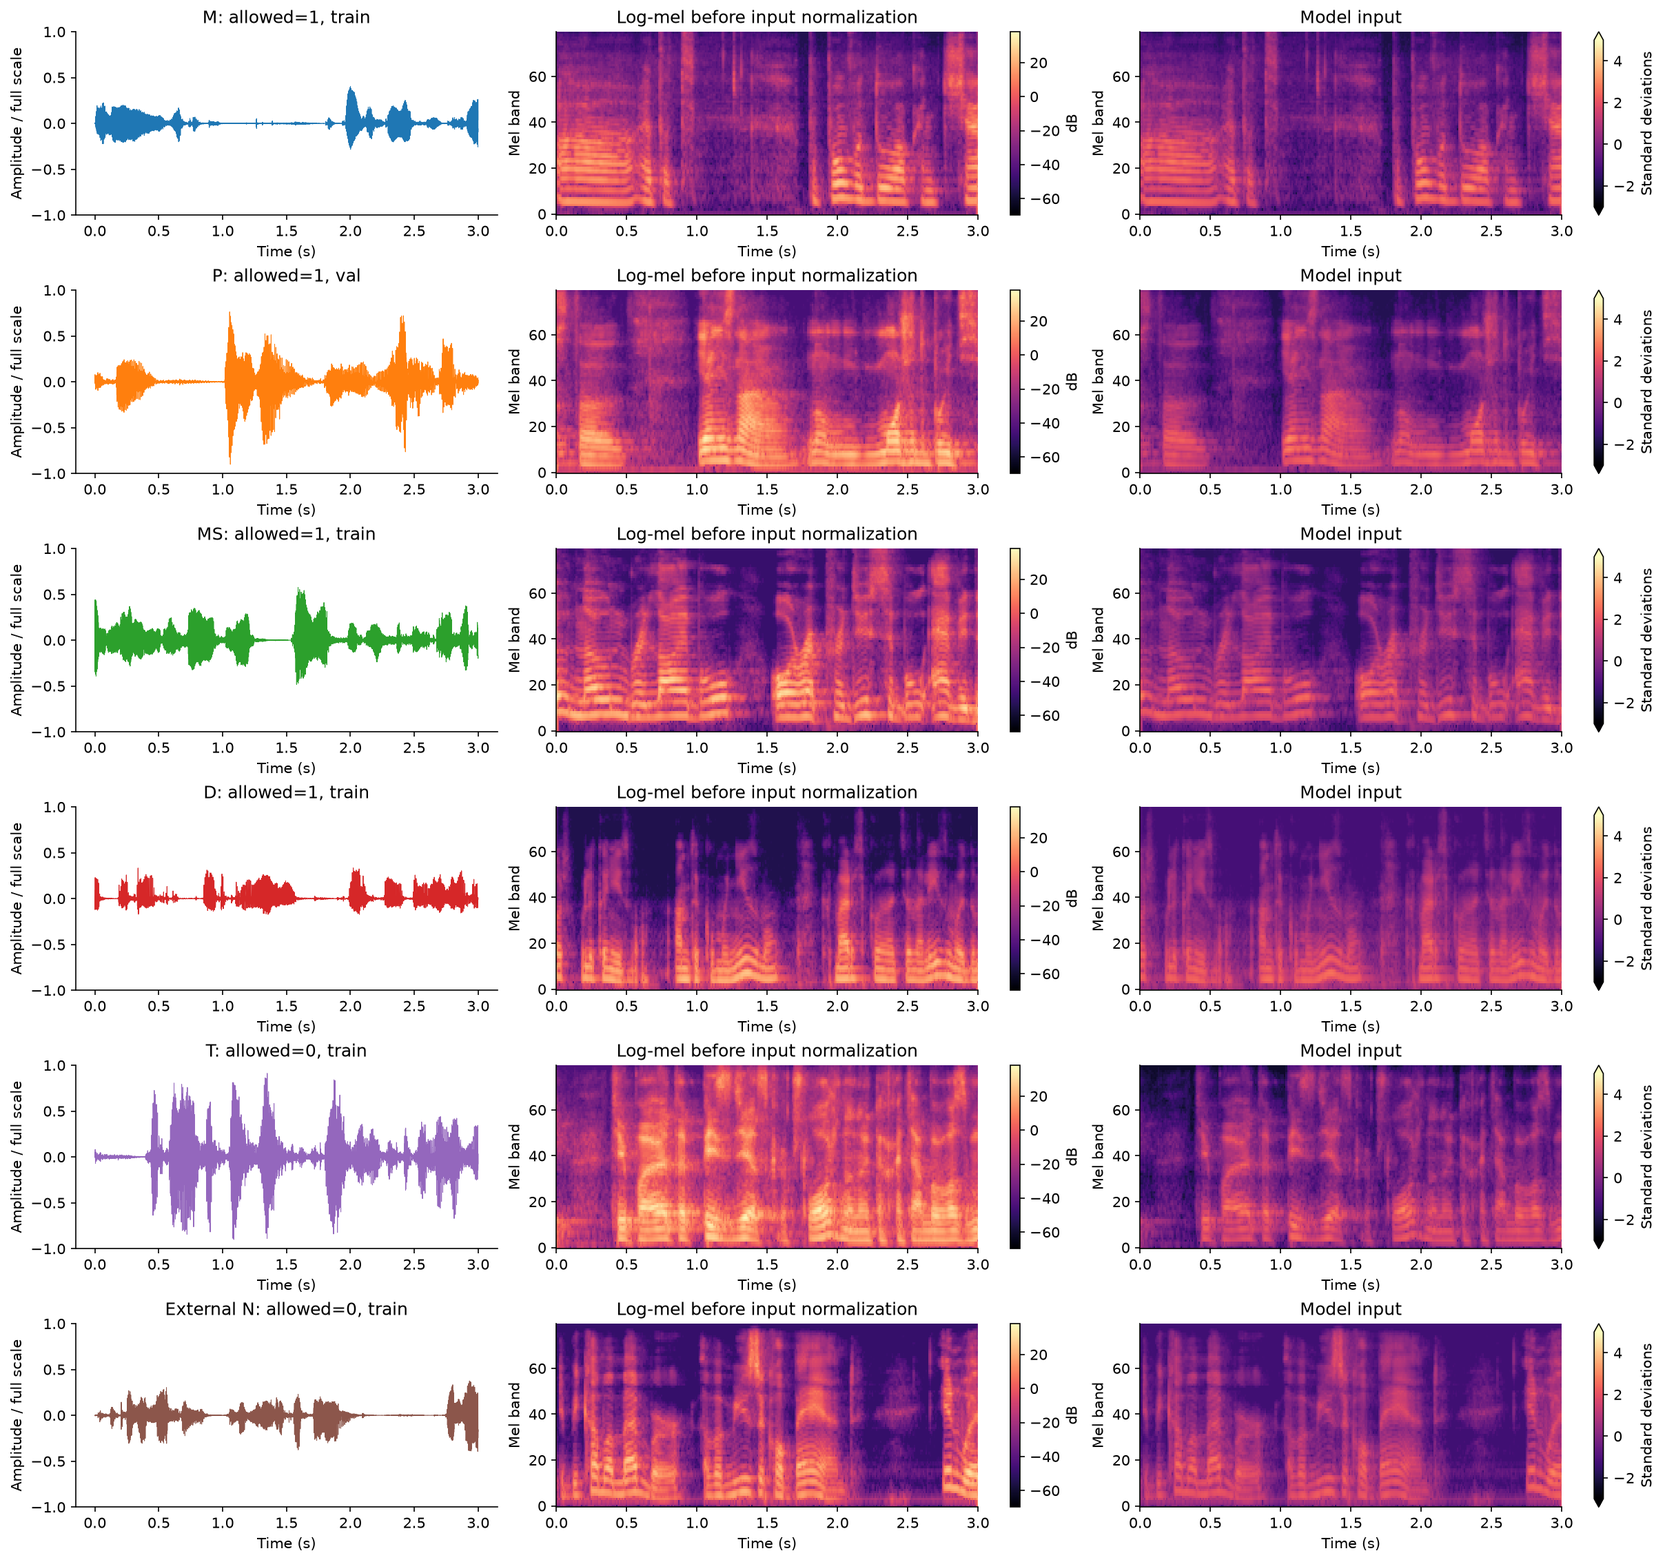
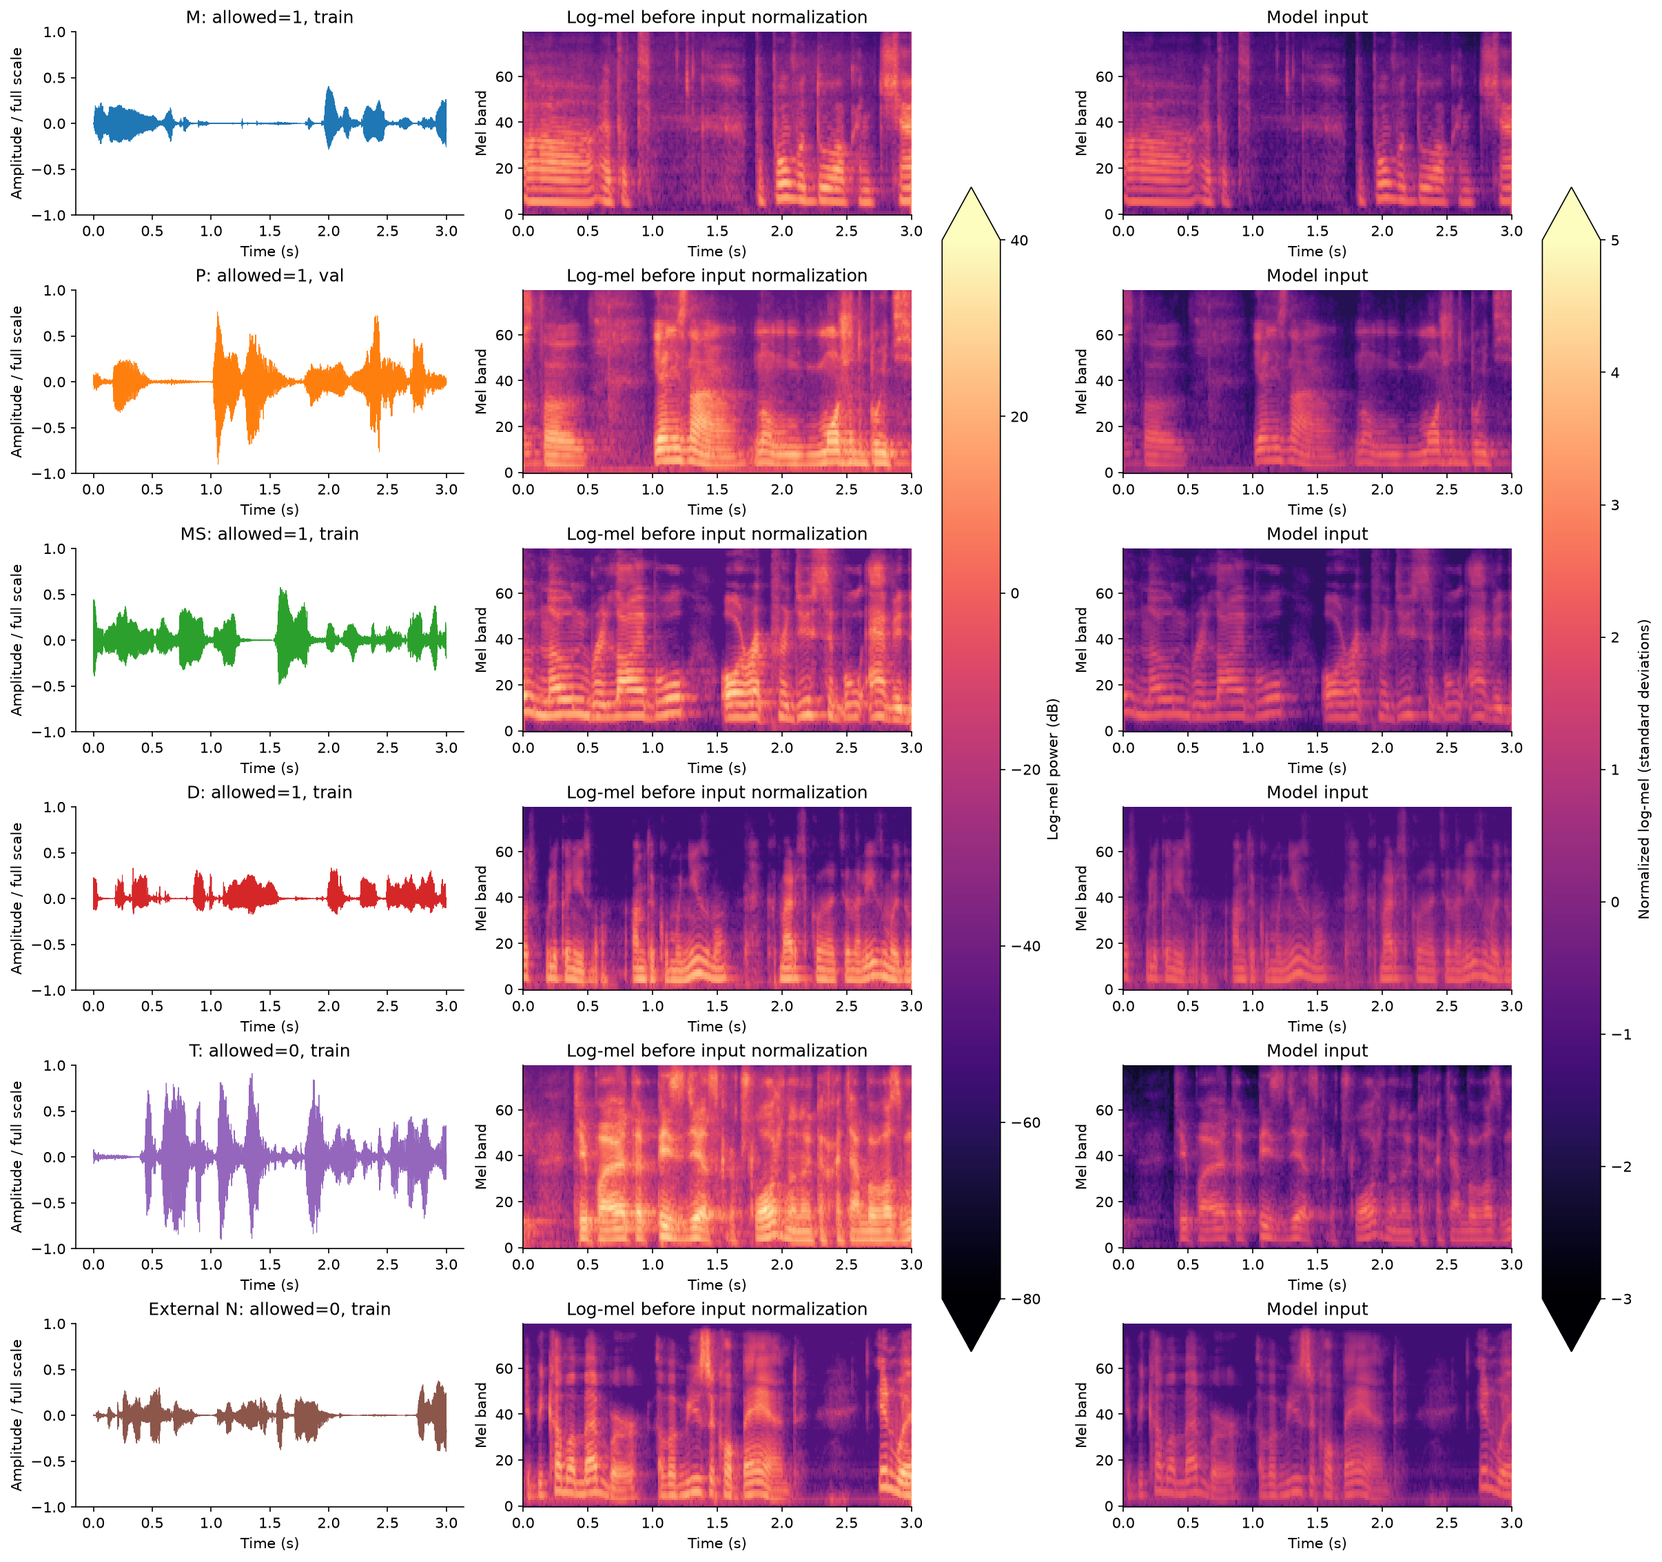
Simplify spectrogram export and fix EDA report consistency

diff --git a/src/iml/export_spectrograms.py b/src/iml/export_spectrograms.py
@@ -1,32 +1,25 @@
-"""Export pictures of the same log-mel tensors used by the training loader.
+"""Draw model-input spectrograms and save them as PNG pictures.
 
-Run from the repository root, using the project environment::
+Run from the repository root in the project environment::
 
     python -m iml.export_spectrograms --data data/training_dataset_v2
-    python -m iml.export_spectrograms --data data/training_dataset_v2 --out /tmp/v2-pictures
-    python -m iml.export_spectrograms --data data/training_dataset_v2 --config runs/.../config.json
+    python -m iml.export_spectrograms --data data/training_dataset_v3 --out /tmp/v3-pictures
+    python -m iml.export_spectrograms --data data/training_dataset_v2 --config path/to/config.json
 
-``--out`` defaults to ``<dataset>/spectrograms``. The input must satisfy
-DATA_CONTRACT.md: train/val/test CSVs and 16 kHz, three-second int16 NPY clips.
-No model, training, download, or waveform modification is involved.
+The default output is DATA/spectrograms. Each PNG is grouped by split/class and
+preserves the input clip's relative path. spectrogram_index.csv maps images to
+clips; export_metadata.json records the frontend settings. Each run redraws the
+selected images, including existing ones, so changed inputs/settings take effect.
 
-Defaults match the training frontend: 80 mel bands, FFT 512, hop 160, power=2,
-AmplitudeToDB(top_db=80), followed by per-sample normalization. An experiment
-``--config`` can supply different frontend settings. The exporter calls
-SpectrogramDataset directly, using deterministic evaluation cropping; with the
-default three-second clips, training and evaluation crops are identical.
+Manifest parsing and validation come from iml.contract. SpectrogramDataset computes
+exactly the evaluation input tensor: log-mel power, dB conversion, then configured
+normalization. Native three-second clips need no cropping. Only the rendered PNG
+uses a colormap; the model receives the numerical tensor, not this image.
+Pictures share fixed color limits within each normalization mode, including
+across datasets. Values outside the display range saturate without changing
+the tensor. Raw dB, scaled dB, and per-sample units remain different quantities.
 
-PNG files are placed in ``<out>/<split>/<allowed|invalid>/<original path>.png``.
-``spectrogram_index.csv`` maps each picture to its clip and label;
-``export_metadata.json`` records frontend settings and the dataset fingerprint.
-PNG colors are a visualization of the tensor, not a replacement training input.
-Per-sample-normalized pictures share a fixed color range; out-of-range colors
-are saturated, and the underlying tensor is unchanged.
-
-An unchanged export can resume by skipping existing PNGs. Different input data,
-frontend settings, or DPI require ``--overwrite``. That flag recreates expected
-images but never deletes unrelated files. The input fingerprint is checked again
-after export. Other datasets are processed only when selected explicitly.
+The Python API returns the clip-to-image index as a DataFrame.
 """
 
 from __future__ import annotations
@@ -41,10 +34,13 @@ import torch
 from tqdm.auto import tqdm
 
 from iml.config import ExperimentConfig
-from iml.contract import SPLITS, fingerprint, validate_dataset
+from iml.contract import SPLITS, read_split, validate_dataset
 from iml.data import SpectrogramDataset
 
 FRONTEND_FIELDS = ("sample_rate", "excerpt_sec", "n_fft", "hop_length", "n_mels", "normalize_input")
+
+# Display ranges only. "global" applies (dB + 40) / 40 to the raw dB limits.
+COLOR_LIMITS = {"none": (-80.0, 40.0), "global": (-1.0, 2.0), "per_sample": (-3.0, 5.0)}
 
 
 def draw_spectrogram(ax, spectrogram, cfg: ExperimentConfig, *, title: str = ""):
@@ -57,7 +53,7 @@ def draw_spectrogram(ax, spectrogram, cfg: ExperimentConfig, *, title: str = "")
     if values.ndim != 2 or values.shape[0] != cfg.n_mels:
         raise ValueError("Expected a two-dimensional (mel bands, frames) spectrogram")
     hop_seconds = cfg.hop_length / cfg.sample_rate
-    limits = {"vmin": -3.0, "vmax": 5.0} if cfg.normalize_input == "per_sample" else {}
+    low, high = COLOR_LIMITS[cfg.normalize_input]
     image = ax.imshow(
         values,
         origin="lower",
@@ -70,7 +66,8 @@ def draw_spectrogram(ax, spectrogram, cfg: ExperimentConfig, *, title: str = "")
             -0.5,
             cfg.n_mels - 0.5,
         ),
-        **limits,
+        vmin=low,
+        vmax=high,
     )
     ax.set(xlabel="Time (s)", ylabel="Mel band", title=title, xlim=(0, cfg.excerpt_sec))
     return image
@@ -90,13 +87,12 @@ def export_spectrograms(
     cfg: ExperimentConfig | None = None,
     *,
     dpi: int = 120,
-    overwrite: bool = False,
     verbose: bool = True,
 ) -> pd.DataFrame:
-    """Write one PNG per manifest row and return the clip-to-image index.
+    """Draw and save one PNG per clip, replacing existing images at the same paths.
 
-    Reuses SpectrogramDataset without changing labels, splits, or input audio.
-    ``cfg`` affects only the frontend, not model construction or training.
+    Input waveforms, labels, and split manifests are never written. Validation
+    checks file headers once; each waveform is then loaded by SpectrogramDataset.
     """
     import matplotlib.pyplot as plt
 
@@ -105,70 +101,27 @@ def export_spectrograms(
     cfg = cfg or ExperimentConfig()
     if dpi < 1:
         raise ValueError("DPI must be positive")
-    if output_dir == data_dir or output_dir == data_dir / "audio":
+    if output_dir in (data_dir, data_dir / "audio"):
         raise ValueError("Choose a dedicated output folder, not the dataset root or audio folder")
     errors = validate_dataset(data_dir)
     if errors:
         raise ValueError(errors)
-    original = fingerprint(data_dir)
-    frontend = {field: getattr(cfg, field) for field in FRONTEND_FIELDS}
-    signature = {"dataset_sha1": original["sha1"], "frontend": frontend, "dpi": dpi}
-    metadata_path = output_dir / "export_metadata.json"
-    if metadata_path.exists():
-        previous = json.loads(metadata_path.read_text())
-        if previous.get("signature") != signature and not overwrite:
-            raise ValueError(
-                "Export settings or dataset changed; choose another folder or --overwrite"
-            )
-    elif output_dir.exists() and any(output_dir.rglob("*.png")) and not overwrite:
-        raise ValueError("Unidentified existing PNGs; choose another folder or --overwrite")
 
-    # Preserve the original path to avoid collisions between identically named clips.
     rows = []
-    for split in SPLITS:
-        manifest = pd.read_csv(data_dir / f"{split}.csv")
-        for row in manifest.itertuples(index=False):
-            label_name = "allowed" if int(row.allowed) == 1 else "invalid"
-            image = Path(split) / label_name / Path(row.path).with_suffix(".png")
-            rows.append(
-                {
-                    "path": row.path,
-                    "allowed": int(row.allowed),
-                    "split": split,
-                    "image": image.as_posix(),
-                }
-            )
-    index = pd.DataFrame(rows, columns=["path", "allowed", "split", "image"])
-    if index.image.duplicated().any():
-        raise ValueError("Image paths are not unique")
-    output_dir.mkdir(parents=True, exist_ok=True)
-    metadata = {
-        "signature": signature,
-        "dataset": original,
-        "complete": False,
-        "normalization_color_limits": [-3, 5] if cfg.normalize_input == "per_sample" else None,
-        "crop": "evaluation (center); native three-second clips need no cropping",
-        "tensor_source": "iml.data.SpectrogramDataset",
-        "torch_version": str(torch.__version__),
-    }
-    metadata_path.write_text(json.dumps(metadata, indent=2) + "\n")
-    written = skipped = 0
     with torch.inference_mode():
         for split in SPLITS:
-            part = index[index.split.eq(split)]
-            dataset = SpectrogramDataset(
-                [(data_dir / row.path, row.allowed) for row in part.itertuples()], cfg, train=False
-            )
-            for i, row in enumerate(
-                tqdm(part.itertuples(), total=len(part), desc=f"PNG {split}", disable=not verbose)
+            items = read_split(data_dir, split)
+            dataset = SpectrogramDataset(items, cfg, train=False)
+            for i, (path, label) in enumerate(
+                tqdm(items, desc=f"PNG {split}", disable=not verbose)
             ):
-                target = output_dir / row.image
-                if target.exists() and not overwrite:
-                    skipped += 1
-                    continue
-                tensor, label = dataset[i]
-                if label != row.allowed or not torch.isfinite(tensor).all():
-                    raise ValueError(f"Invalid frontend output for {row.path}")
+                relative = path.relative_to(data_dir)
+                label_name = "allowed" if label == 1 else "invalid"
+                image_path = Path(split) / label_name / relative.with_suffix(".png")
+                target = output_dir / image_path
+                tensor, _ = dataset[i]
+                if not torch.isfinite(tensor).all():
+                    raise ValueError(f"Invalid frontend output for {relative}")
                 target.parent.mkdir(parents=True, exist_ok=True)
                 fig, ax = plt.subplots(figsize=(8, 3.2), layout="constrained")
                 try:
@@ -176,23 +129,33 @@ def export_spectrograms(
                         ax,
                         tensor.squeeze(0).cpu().numpy(),
                         cfg,
-                        title=f"{Path(row.path).stem}\n{split} · allowed={label}",
+                        title=f"{path.stem}\n{split} · allowed={label}",
                     )
                     fig.colorbar(image, ax=ax, label=colorbar_label(cfg), extend="both")
-                    temporary = target.with_suffix(".png.tmp")
-                    fig.savefig(temporary, format="png", dpi=dpi)
-                    temporary.replace(target)
-                    written += 1
+                    fig.savefig(target, dpi=dpi)
                 finally:
                     plt.close(fig)
-    if fingerprint(data_dir) != original:
-        raise RuntimeError("Input data changed during export; the export is marked incomplete")
+                rows.append(
+                    {
+                        "path": relative.as_posix(),
+                        "allowed": label,
+                        "split": split,
+                        "image": image_path.as_posix(),
+                    }
+                )
+    output_dir.mkdir(parents=True, exist_ok=True)
+    index = pd.DataFrame(rows, columns=["path", "allowed", "split", "image"])
     index.to_csv(output_dir / "spectrogram_index.csv", index=False)
-    metadata.update(complete=True, image_count=len(index), written=written, skipped=skipped)
-    metadata_path.write_text(json.dumps(metadata, indent=2) + "\n")
+    metadata = {
+        "data_dir": str(data_dir),
+        "frontend": {k: getattr(cfg, k) for k in FRONTEND_FIELDS},
+        "color_limits": COLOR_LIMITS[cfg.normalize_input],
+        "dpi": dpi,
+        "image_count": len(index),
+    }
+    (output_dir / "export_metadata.json").write_text(json.dumps(metadata, indent=2) + "\n")
     if verbose:
-        print(f"{written} written, {skipped} reused: {output_dir}")
-        print("Input manifests and waveform fingerprint unchanged:", original["sha1"])
+        print(f"Saved {len(index)} spectrogram pictures: {output_dir}")
     return index
 
 
@@ -200,18 +163,17 @@ def main() -> None:
     parser = argparse.ArgumentParser(
         description=__doc__, formatter_class=argparse.RawDescriptionHelpFormatter
     )
-    parser.add_argument("--data", type=Path, required=True, help="Dataset with train/val/test CSVs")
-    parser.add_argument("--out", type=Path, help="Output folder (default: DATA/spectrograms)")
-    parser.add_argument("--config", type=Path, help="Experiment JSON containing frontend settings")
+    parser.add_argument("--data", type=Path, required=True, help="dataset with train/val/test CSVs")
+    parser.add_argument("--out", type=Path, help="picture folder (default: DATA/spectrograms)")
+    parser.add_argument("--config", type=Path, help="experiment config with frontend settings")
     parser.add_argument("--dpi", type=int, default=120, help="PNG resolution (default: 120)")
-    parser.add_argument("--overwrite", action="store_true", help="Recreate expected images")
     parser.add_argument("--threads", type=int, default=4, help="CPU threads (default: 4)")
     args = parser.parse_args()
     if args.threads < 1:
         parser.error("--threads must be positive")
     torch.set_num_threads(args.threads)
     cfg = ExperimentConfig.from_json(args.config) if args.config else ExperimentConfig()
-    export_spectrograms(args.data, args.out, cfg, dpi=args.dpi, overwrite=args.overwrite)
+    export_spectrograms(args.data, args.out, cfg, dpi=args.dpi)
 
 
 if __name__ == "__main__":

diff --git a/notebooks/spdsslg/eda/DATA_ANALYSIS.md b/notebooks/spdsslg/eda/DATA_ANALYSIS.md
@@ -40,8 +40,8 @@ matching provenance files or documented filename conventions supply recording/sp
 Results are kept separately for each dataset:
 
 ```text
-notebooks/eda/
-  README.md
+notebooks/spdsslg/eda/
+  DATA_ANALYSIS.md
   recordings.ipynb
   reports/
     training_dataset_v2/
@@ -51,28 +51,10 @@ notebooks/eda/
 
 Each report folder contains five figures, summary tables, per-clip measurements,
 `observations.md`, and metadata recording the settings, software versions, seed, and input
-checksum. The checksum confirms that input data stayed unchanged. Reports are gitignored;
-the figure links below work locally after running the notebook.
-
-### Optional spectrogram export
-
-`EXPORT_ALL_SPECTROGRAMS = False` still produces all analysis plots and representative
-spectrograms. Set it to `True` to additionally save **one PNG per clip** under
-`<dataset>/spectrograms/`, grouped by split and allowed/invalid class.
-
-The exporter calls the training loader's own spectrogram code. PNGs visualize the model's
-inputs; they do not replace the audio arrays used for training. An index links each image
-to its clip, and metadata records the settings. Unchanged exports can resume.
-
-To export independently to a chosen folder:
-
-```bash
-/opt/venv/bin/python -m iml.export_spectrograms \
-  --data data/training_dataset_v2 \
-  --out data/training_dataset_v2/spectrograms
-```
-
-Use `--config` for an experiment's frontend settings; see `--help` for other options.
+checksum. The checksum confirms that input data stayed unchanged. The v2 PNG figures and
+`observations.md` are included as the example report. Reports for v3/v4 are local and
+gitignored; JSON metadata and CSV files are also ignored. Tables and per-clip measurements
+are displayed in the notebook. The figure links below point to the v2 example report.
 
 ## v2 at a glance
 
@@ -186,6 +168,12 @@ bands run bottom to top. Lighter areas indicate stronger values within that pane
 all-clip statistics. Both spectrogram columns retain gaps and frequency patterns: normalization
 rescales features rather than cleaning audio. Their units differ, so brightness cannot measure
 a loudness change. These are representative examples, not every clip in each group.
+
+Pictures share fixed color limits within each mode: raw log-mel uses −80 to 40 dB,
+`global` uses −1 to 2 (the same dB range after its scaling), and `per_sample` uses −3 to 5.
+This makes colors comparable across images and datasets using the same mode. Values outside
+these ranges use the endpoint colors; the underlying tensors are unchanged. Different modes
+still use different units, so colors are not directly comparable between modes.
 
 ## General observations from v2
 

diff --git a/README.md b/README.md
@@ -147,17 +147,19 @@ uv run python -m iml.export_spectrograms --data data/training_dataset_v3 --out /
 ```
 
 Images are grouped by split and allowed/invalid class. `spectrogram_index.csv` maps pictures
-to clips; `export_metadata.json` records the frontend settings and input dataset checksum.
+to clips; `export_metadata.json` records the frontend settings and image count.
 Defaults use 80 mel bands, FFT 512, hop 160, and per-sample normalization. Pass
-`--config path/to/config.json` to use an experiment's frontend settings.
+`--config path/to/config.json` to use an experiment's frontend settings. Pictures share fixed
+color limits within each normalization mode, so their colors can be compared across clips;
+values outside the display range saturate without changing model inputs.
 
-Unchanged exports skip existing pictures. Use `--overwrite` to recreate them when data or
-settings change; `--dpi` controls image resolution. Run with `--help` for all options.
+Each run redraws pictures, replacing existing PNGs at the same paths so changed inputs and
+settings take effect. `--dpi` controls image resolution. Run with `--help` for all options.
 The script preserves input waveforms, labels, and splits. The PNGs are for inspection:
 models receive the numerical spectrogram tensors directly, rather than loading these images.
 
 For dataset composition, audio-quality plots, and examples, see the
-[recording EDA notebook guide](notebooks/eda/DATA_ANALYSIS.md).
+[recording EDA notebook guide](notebooks/spdsslg/eda/DATA_ANALYSIS.md).
 
 ## Server workflow
 

diff --git a/notebooks/spdsslg/eda/reports/training_dataset_v2/observations.md b/notebooks/spdsslg/eda/reports/training_dataset_v2/observations.md
@@ -5,6 +5,5 @@
 - **0 recording IDs cross splits**. There are **0 exact waveform duplicate groups**, with **0** crossing splits. These checks do not establish absence of acoustic near duplicates or shared sessions.
 - **33 clips** contain int16 PCM-limit samples. This does not prove analog clipping or rule out other distortion.
 - Median RMS spans **10.2 dB** across displayed groups (M: -26.5 dBFS; T: -16.3 dBFS). Voice and recording conditions may both contribute.
-- All **639 model inputs** match the shared frontend and have shape **80 × 301**. Normalization changes feature scale; it does not denoise waveforms.
-- Full per-clip image export was disabled; analysis figures were saved.
+- Features for all **639 clips** use the shared loader and normalization, with shape **80 × 301**. Normalization changes feature scale; it does not denoise waveforms.
 - Dataset fingerprint unchanged: `10ac1fb033e3b1845bc52ea2e2229c2982ad11f0`. No waveform, class label, or split was modified.
